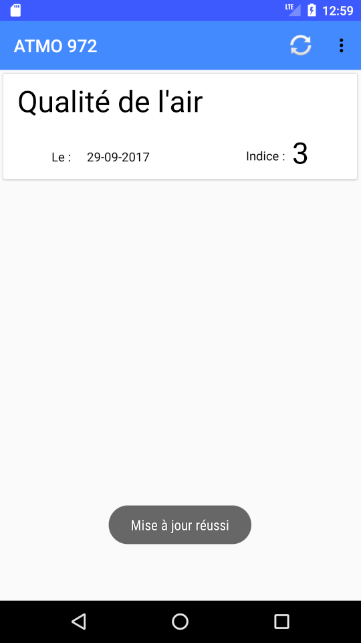
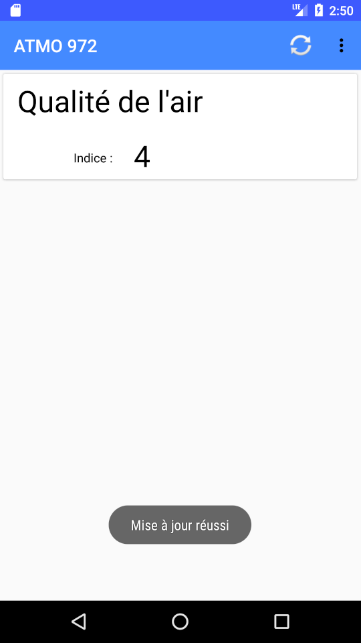
Modification de l'interface

diff --git a/app/src/main/java/com/example/eag/myapplication/AtmoAdaptateur.java b/app/src/main/java/com/example/eag/myapplication/AtmoAdaptateur.java
@@ -1,10 +1,13 @@
 package com.example.eag.myapplication;
 
+import android.graphics.Color;
+import android.support.v7.widget.CardView;
 import android.support.v7.widget.RecyclerView;
 import android.view.LayoutInflater;
 import android.view.View;
 import android.view.ViewGroup;
 import android.widget.TextView;
+
 
 /**
  * Created by EAG on 02/09/2017.
@@ -30,9 +33,38 @@ public class AtmoAdaptateur extends RecyclerView.Adapter<AtmoAdaptateur.ViewHold
     //information de notre position
     @Override
     public void onBindViewHolder(ViewHolder holder, int position) {
+        int couleur1_2 = 0xff0099cc;
+        int couleur3_4 = 0xff33b5e5;
+        int couleur5 = 0xffffbb33;
+        int couleur6_7 = 0xffff8800;
+        int couleur8_9 = 0xffff4444;
+        int couleur10 = 0xffaa66cc;
 
         holder.date.setText(atmoElements[position].getDate());
         holder.indice.setText(atmoElements[position].getIndice());
+        switch (Integer.parseInt(atmoElements[position].getIndice())){
+            case 1:
+            case 2:
+                holder.cvIndiceAtmo.setCardBackgroundColor(couleur1_2);
+                break;
+            case 3:
+            case 4:
+                holder.cvIndiceAtmo.setCardBackgroundColor(couleur3_4);
+                break;
+            case 5:
+                holder.cvIndiceAtmo.setCardBackgroundColor(couleur5);
+                break;
+            case 6:
+            case 7:
+                holder.cvIndiceAtmo.setCardBackgroundColor(couleur6_7);
+                break;
+            case 8:
+            case 9:
+                holder.cvIndiceAtmo.setCardBackgroundColor(couleur8_9);
+                break;
+            case 10:
+                holder.cvIndiceAtmo.setCardBackgroundColor(couleur10);
+        }
 
     }
 
@@ -46,11 +78,13 @@ public class AtmoAdaptateur extends RecyclerView.Adapter<AtmoAdaptateur.ViewHold
     public class ViewHolder extends RecyclerView.ViewHolder {
         TextView date;
         TextView indice;
+        CardView cvIndiceAtmo;
 
         public ViewHolder(View itemView) {
             super(itemView);
             date = (TextView) itemView.findViewById(R.id.tvDate);
             indice = (TextView) itemView.findViewById(R.id.tvIndice);
+            cvIndiceAtmo = (CardView) itemView.findViewById(R.id.cv_indice_atmo);
 
         }
     }

diff --git a/app/src/main/java/com/example/eag/myapplication/MainActivity.java b/app/src/main/java/com/example/eag/myapplication/MainActivity.java
@@ -21,7 +21,6 @@ import java.net.MalformedURLException;
 import java.net.URL;
 import java.util.List;
 
-
 public class MainActivity extends BaseActivity {
 
     TextView tvDate;
@@ -62,7 +61,7 @@ public class MainActivity extends BaseActivity {
         //TODO : Implementer uns sauvegarde des donnée sur un changelebt d'orientation
         //Si pas encore charger (evite de relancer le parse à chaque execution de onCreate. ex: changement orientation)
         if(atmoElements == null)
-            new atmoMadininair().execute();
+            new AtmoMadininair().execute();
     }
 
     //ajout d'un menu personnaliser
@@ -72,15 +71,15 @@ public class MainActivity extends BaseActivity {
         return super.onCreateOptionsMenu(menu);
     }
 
-    private class atmoMadininair extends AsyncTask<Void, Void, AtmoElement[]>{
+    private class AtmoMadininair extends AsyncTask<Void, Void, AtmoElement[]> {
 
         @Override
         protected AtmoElement[] doInBackground(Void... params) {
-            int nbrJourAntérieur = -20;
+            int nbrJourAntérieur = -15;
 
             Uri.Builder uriBuilder = new Uri.Builder();
 
-//          String urlMadininairCSV = "http://www.madininair.fr/indice_atmo.php?dd="+Utilites.recupererDate(nbrJourAntérieur)+"&df="+Utilites.recupererDate(0);
+//          http://www.madininair.fr/indice_atmo.php?dd="+Utilites.recupererDate(nbrJourAntérieur)+"&df="+Utilites.recupererDate(0)
             uriBuilder.scheme("http")
                     .authority("www.madininair.fr")
                     .appendPath("indice_atmo.php")
@@ -110,7 +109,6 @@ public class MainActivity extends BaseActivity {
 
             if(atmoElements != null){
                 Toast.makeText(MainActivity.this, "Mise à jour réussi", Toast.LENGTH_SHORT).show();
-                tvDate.setText(atmoElements[0].getDate());
                 tvIndice.setText(atmoElements[0].getIndice());
             }
 

diff --git a/app/src/main/java/com/example/eag/myapplication/BaseActivity.java b/app/src/main/java/com/example/eag/myapplication/BaseActivity.java
@@ -12,12 +12,6 @@ import android.widget.Toast;
 
 public class BaseActivity extends AppCompatActivity {
 
-    //ajout d'un menu personnaliser
-//    @Override
-//    public boolean onCreateOptionsMenu(Menu menu) {
-//        getMenuInflater().inflate(R.menu.menu_acceuil, menu);
-//        return super.onCreateOptionsMenu(menu);
-//    }
 
     //action à mener sur le clic d'une option
     @Override
@@ -25,7 +19,7 @@ public class BaseActivity extends AppCompatActivity {
         switch (item.getItemId()){
             case R.id.menu_actualiser:
                 //TODO : A verifier si cela actualise le Recycler View
-                //new MainActivity.atmoMadininair().execute();
+//                new AtmoMadininair().execute();
                 return true;
             case R.id.menu_about:
                 Context context = getApplicationContext();
@@ -37,7 +31,7 @@ public class BaseActivity extends AppCompatActivity {
                 i.setType("message/rfc822");
                 i.putExtra(Intent.EXTRA_EMAIL, new String[]{"eangot.bzh@gmail.com"});
                 i.putExtra(Intent.EXTRA_SUBJECT, "[CONTACT] - Application ATMO972");
-                i.putExtra(Intent.EXTRA_TEXT, "Laissez votre message ici");
+                //i.putExtra(Intent.EXTRA_TEXT, "Laissez votre message ici");
                 try {
                     startActivity(Intent.createChooser(i, "Envoyer Email..."));
                 }
